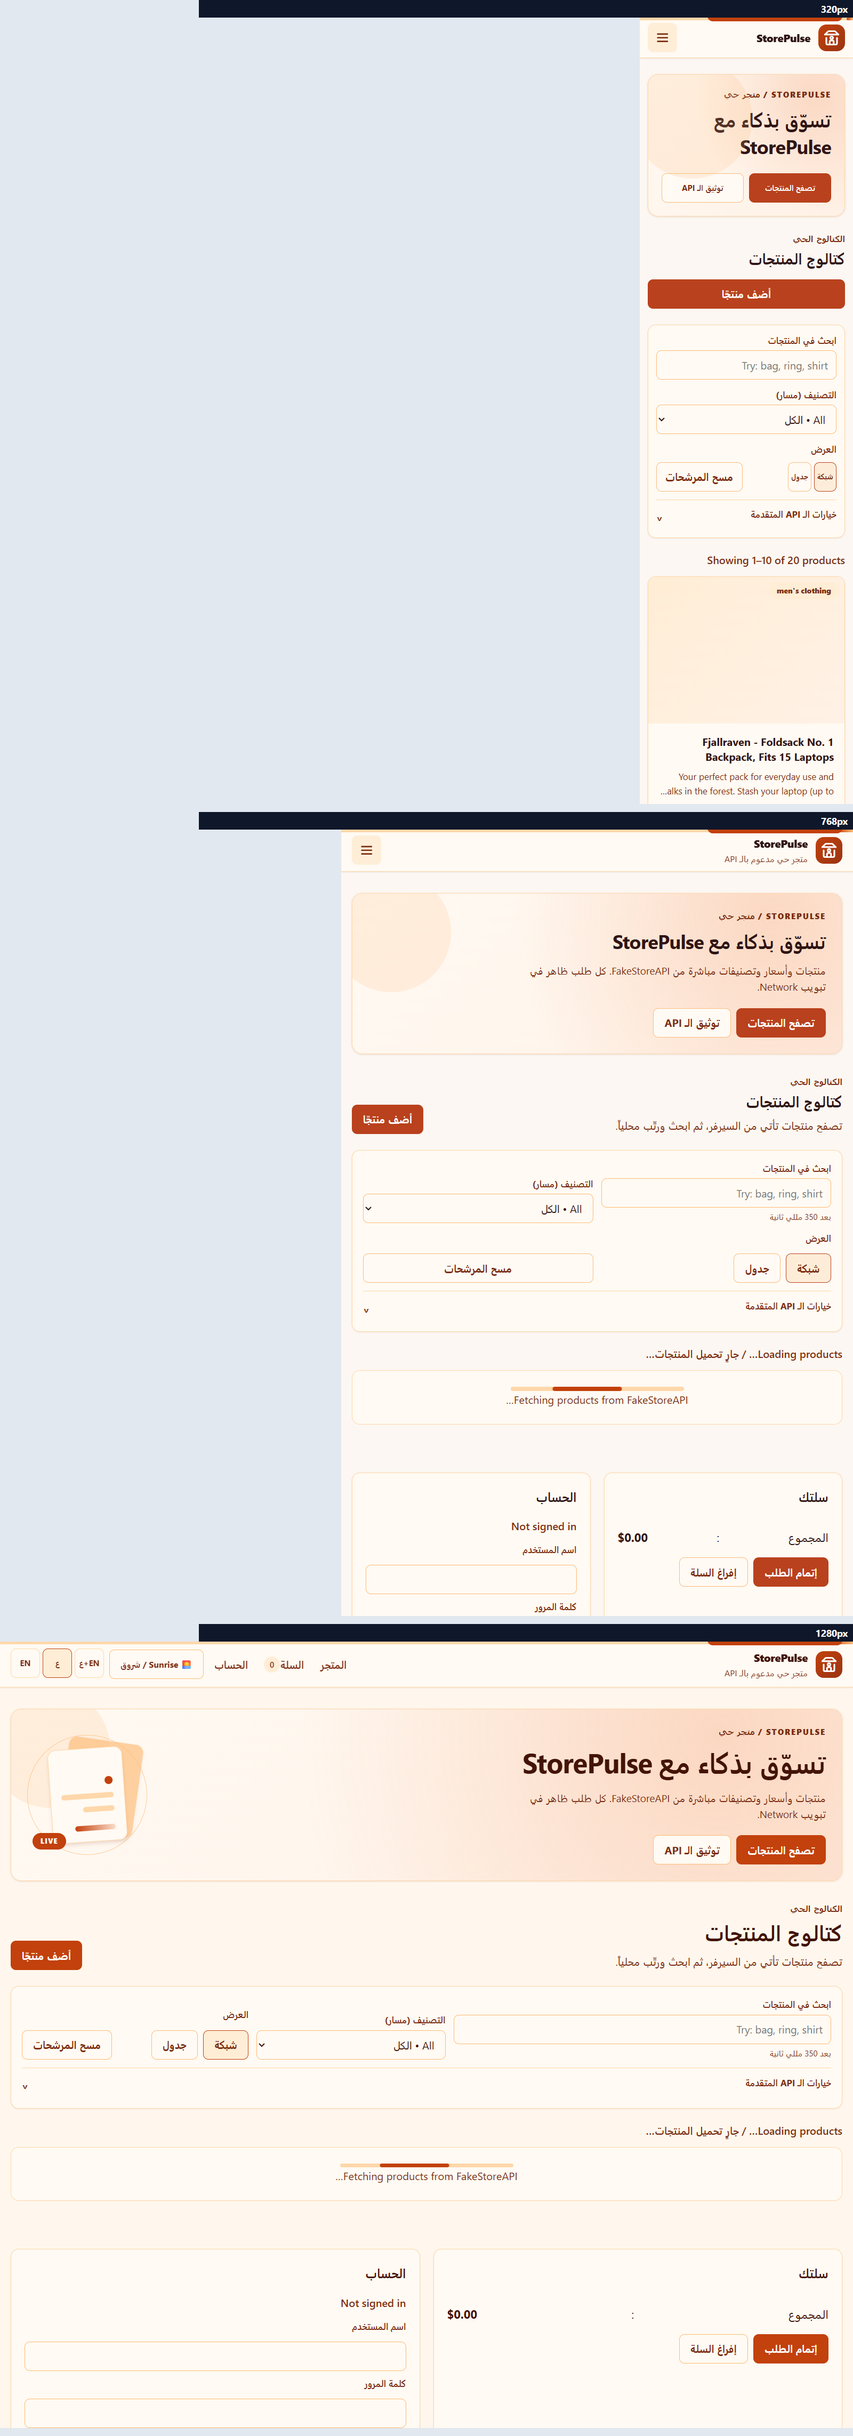
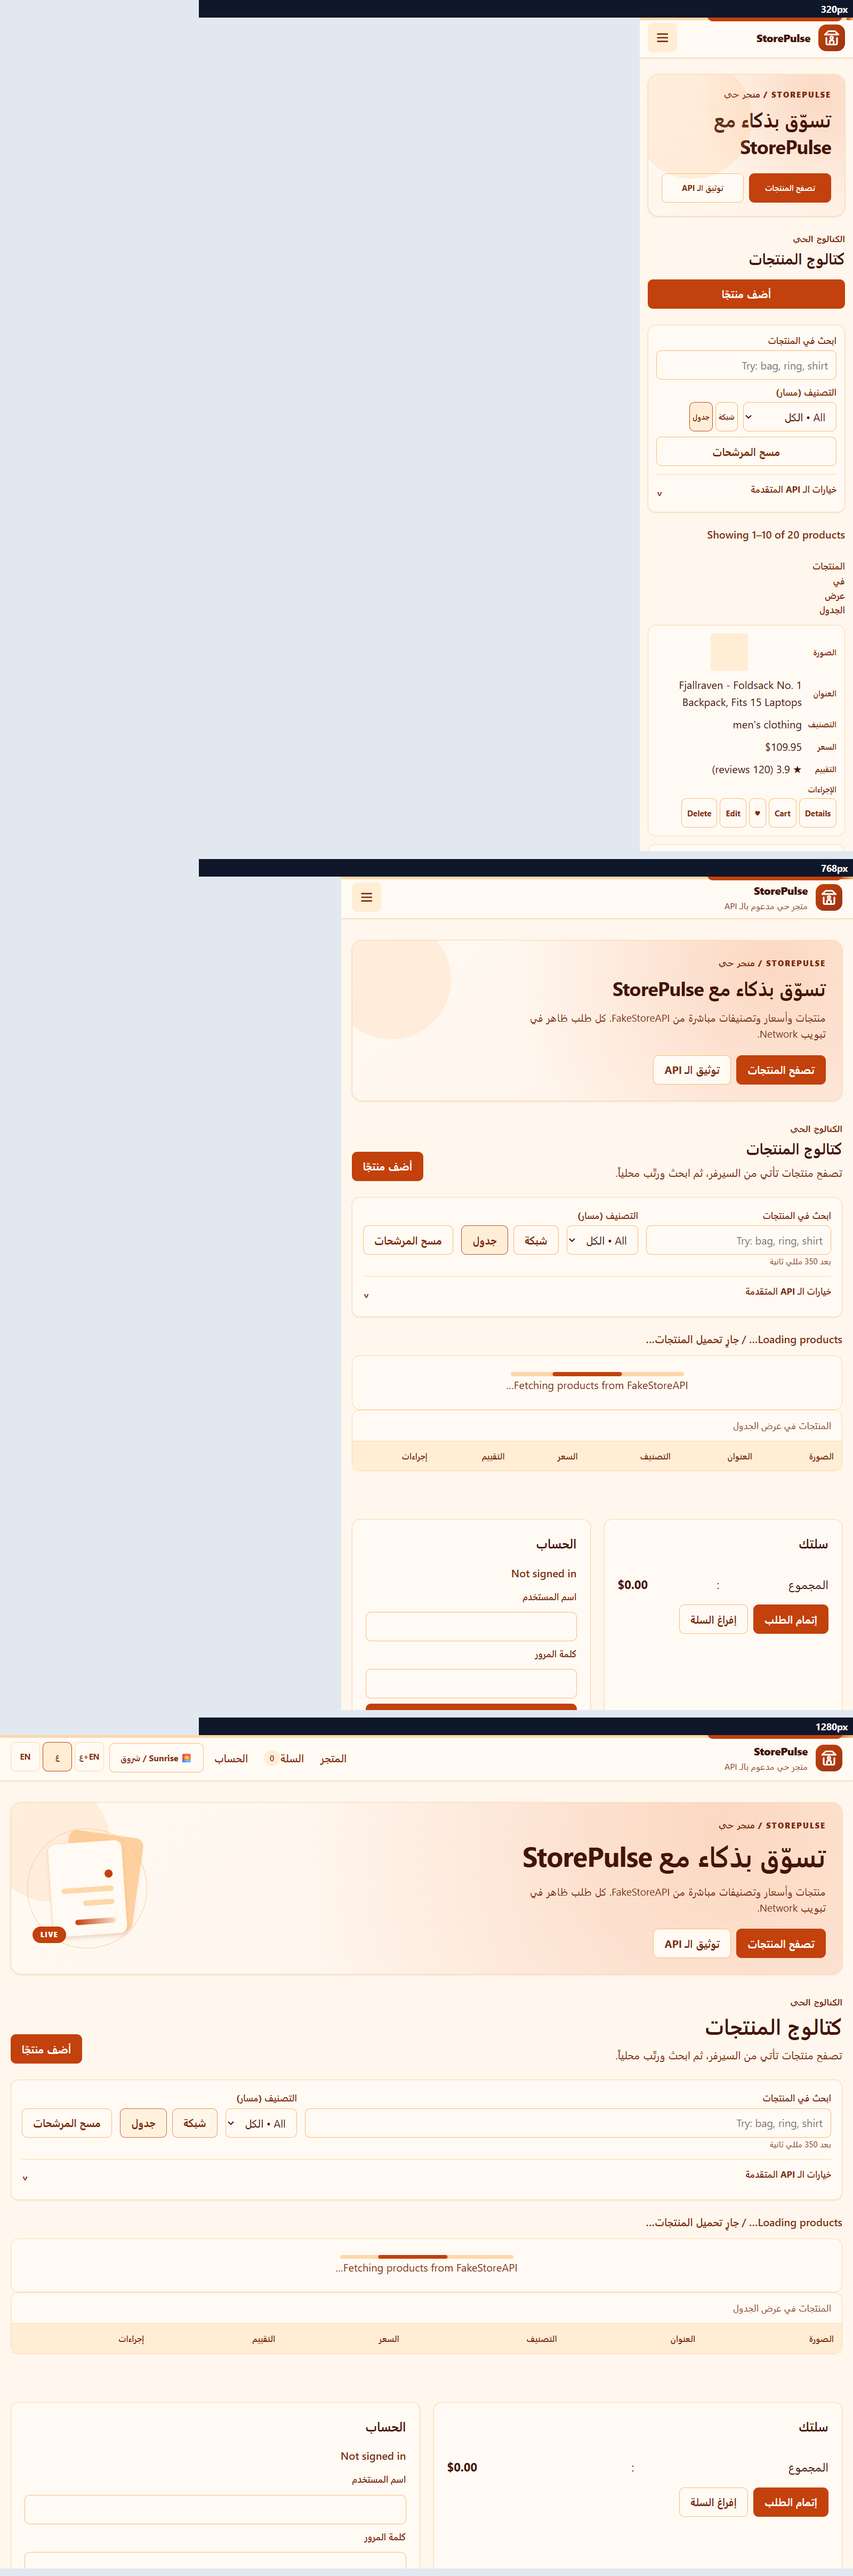
Remove sideways scrolling across the site
Keep the filter controls on one straight row from 641px and wrap them on phones instead of adding an internal scrollbar. Turn the table into labelled cards at 640px and below, restrict dialogs to vertical scrolling, and refresh docs and evidence.

diff --git a/style.css b/style.css
@@ -768,27 +768,44 @@ textarea {
   box-shadow: var(--shadow-xs);
 }
 
+/* One straight row on wide screens; it wraps instead of scrolling on phones. */
 .filter-primary {
-  display: grid;
-  grid-template-columns: minmax(min(100%, 220px), 2fr) minmax(min(100%, 180px), 1fr) auto auto;
-  align-items: end;
+  display: flex;
+  flex-wrap: nowrap;
+  align-items: flex-end;
   gap: var(--space-3);
+  min-width: 0;
+  /* Leave room for the absolutely positioned debounce hint without another strip. */
+  padding-block-end: var(--space-5);
+}
+
+.filter-primary > * {
+  flex: 0 0 auto;
 }
 
 .filter-field {
   min-width: 0;
 }
 
-/* :first-child gives the search field priority on wide screens. */
+/* The hint is taken out of flow so the search input shares the control baseline. */
+.filter-search {
+  position: relative;
+}
+
+/* :first-child gives the search field priority while staying on the row. */
 .filter-primary > .filter-field:first-child {
+  flex: 1 1 220px;
   min-width: 220px;
 }
 
 .filter-hint {
+  position: absolute;
+  inset-block-start: 100%;
+  inset-inline-start: 0;
   display: block;
   color: var(--text-muted);
   font-size: 0.75rem;
-  margin-block-start: var(--space-1);
+  white-space: nowrap;
 }
 
 .view-switch {
@@ -796,16 +813,20 @@ textarea {
   display: flex;
   align-items: flex-end;
   gap: var(--space-2);
-  flex-wrap: wrap;
+  flex-wrap: nowrap;
+  margin: 0;
+  padding: 0;
 }
 
+/* The legend is kept for accessibility but does not add a second line. */
 .view-switch legend {
-  float: left;
-  width: 100%;
-  color: var(--text-secondary);
-  font-size: 0.85rem;
-  font-weight: 700;
-  margin-block-end: var(--space-1);
+  position: absolute;
+  width: 1px;
+  height: 1px;
+  overflow: hidden;
+  clip-path: inset(50%);
+  white-space: nowrap;
+  margin: 0;
 }
 
 .view-switch .btn[aria-pressed="true"] {
@@ -1047,7 +1068,6 @@ textarea {
 }
 
 .table-wrap {
-  overflow-x: auto;
   border: 1px solid var(--border-subtle);
   border-radius: var(--radius-md);
   background: var(--bg-surface);
@@ -1056,7 +1076,6 @@ textarea {
 .product-table {
   width: 100%;
   border-collapse: collapse;
-  min-width: 640px;
 }
 
 .product-table caption {
@@ -1284,7 +1303,8 @@ textarea {
 .app-dialog {
   width: min(100% - 2 * var(--space-4), 560px);
   max-height: min(90vh, 720px);
-  overflow: auto;
+  overflow-x: hidden;
+  overflow-y: auto;
   border: 1px solid var(--border-subtle);
   border-radius: var(--radius-lg);
   padding: var(--space-5);
@@ -1376,17 +1396,8 @@ textarea {
    13. Responsive rules — no horizontal scroll at 320 px (PDF 3.3).
    -------------------------------------------------------------------------- */
 @media (max-width: 900px) {
-  .filter-primary {
-    grid-template-columns: minmax(0, 2fr) minmax(0, 1fr);
-  }
-
   .filter-primary > .filter-field:first-child {
-    min-width: 0;
-  }
-
-  .view-switch,
-  .clear-button {
-    grid-column: span 1;
+    min-width: 180px;
   }
 
   .primary-nav > a {
@@ -1441,13 +1452,103 @@ textarea {
     display: none;
   }
 
-  .filter-primary,
   .advanced-grid {
     grid-template-columns: minmax(0, 1fr) minmax(0, 1fr);
   }
 
   .cart-item {
     grid-template-columns: 1fr auto;
+  }
+}
+
+/* Phones wrap the toolbar and turn the table into labelled cards: no sideways scroll. */
+@media (max-width: 640px) {
+  .filter-primary {
+    flex-wrap: wrap;
+  }
+
+  .filter-primary > .filter-field:first-child {
+    flex: 1 1 100%;
+    min-width: 0;
+  }
+
+  .filter-primary > .filter-field:nth-child(2) {
+    flex: 0 1 140px;
+    min-width: 0;
+  }
+
+  .clear-button {
+    flex: 1 1 auto;
+  }
+
+  .table-wrap {
+    border: 0;
+    background: none;
+  }
+
+  .product-table,
+  .product-table tbody,
+  .product-table tr,
+  .product-table td {
+    display: block;
+    width: 100%;
+    min-width: 0;
+  }
+
+  .product-table thead {
+    display: none;
+  }
+
+  .product-table caption {
+    padding-inline: 0;
+    font-weight: 700;
+  }
+
+  .product-table tr {
+    margin-block-end: var(--space-3);
+    padding: var(--space-2);
+    border: 1px solid var(--border-subtle);
+    border-radius: var(--radius-md);
+    background: var(--bg-surface);
+  }
+
+  .product-table td {
+    display: grid;
+    grid-template-columns: minmax(var(--size-touch), auto) minmax(0, 1fr);
+    align-items: center;
+    gap: var(--space-2);
+    padding: var(--space-1);
+    border: 0;
+    overflow-wrap: anywhere;
+  }
+
+  .product-table td::before {
+    color: var(--text-muted);
+    font-size: 0.75rem;
+    font-weight: 700;
+  }
+
+  .product-table td:nth-child(1)::before { content: 'Image'; }
+  .product-table td:nth-child(2)::before { content: 'Title'; }
+  .product-table td:nth-child(3)::before { content: 'Category'; }
+  .product-table td:nth-child(4)::before { content: 'Price'; }
+  .product-table td:nth-child(5)::before { content: 'Rating'; }
+  .product-table td:nth-child(6)::before { content: 'Actions'; }
+
+  html[lang="ar"] .product-table td:nth-child(1)::before { content: 'الصورة'; }
+  html[lang="ar"] .product-table td:nth-child(2)::before { content: 'العنوان'; }
+  html[lang="ar"] .product-table td:nth-child(3)::before { content: 'التصنيف'; }
+  html[lang="ar"] .product-table td:nth-child(4)::before { content: 'السعر'; }
+  html[lang="ar"] .product-table td:nth-child(5)::before { content: 'التقييم'; }
+  html[lang="ar"] .product-table td:nth-child(6)::before { content: 'الإجراءات'; }
+
+  .product-table td:last-child {
+    display: block;
+  }
+
+  .product-table td:last-child::before {
+    display: block;
+    margin-block-end: var(--space-1);
   }
 }
 
@@ -1479,10 +1580,10 @@ textarea {
   }
 
   .filter-primary {
-    grid-template-columns: minmax(0, 1fr) minmax(0, 1fr);
+    gap: var(--space-2);
+    padding-block-end: 0;
   }
 
-  .filter-primary > .filter-field,
   .advanced-grid {
     grid-column: 1 / -1;
     grid-template-columns: minmax(0, 1fr);
@@ -1492,11 +1593,6 @@ textarea {
   .section-note,
   .filter-hint {
     display: none;
-  }
-
-  .view-switch,
-  .clear-button {
-    grid-column: span 1;
   }
 
   .view-switch {
@@ -1536,7 +1632,7 @@ textarea {
   }
 }
 
-/* Table stays usable on a phone via horizontal scrolling (PDF 6.4). */
+/* Touch devices skip the hover lift; the table is stacked above at 640px. */
 @media (hover: none) {
   .product-card:hover {
     transform: none;

diff --git a/index.html b/index.html
@@ -122,8 +122,8 @@
             <select id="category-select"><option value="all">All • الكل</option></select>
           </div>
 
-          <fieldset class="view-switch">
-            <legend><span class="bi-en" lang="en">View</span><span class="bi-ar" lang="ar" dir="rtl">العرض</span></legend>
+          <fieldset class="view-switch" aria-label="View • العرض">
+            <legend class="sr-only"><span class="bi-en" lang="en">View</span><span class="bi-ar" lang="ar" dir="rtl">العرض</span></legend>
             <button class="btn btn-outline" id="grid-view" type="button" aria-pressed="true"><span class="bi-en" lang="en">Grid</span><span class="bi-ar" lang="ar" dir="rtl">شبكة</span></button>
             <button class="btn btn-outline" id="table-view" type="button" aria-pressed="false"><span class="bi-en" lang="en">Table</span><span class="bi-ar" lang="ar" dir="rtl">جدول</span></button>
           </fieldset>

diff --git a/README.md b/README.md
@@ -38,7 +38,8 @@ Opening `index.html` directly with `file://` also works for layout, but a local 
 - The thin line at the very top is a scroll-progress indicator: a subtle track plus a theme-coloured fill that grows from the inline start as the page scrolls (`--scroll-progress`, updated on a passive/rAF-throttled scroll listener).
 - Three switchable themes: **Light**, **Dark** and **Sunrise** — one repeatedly-pressable button cycles them; the first visit still follows `prefers-color-scheme`.
 - English / Arabic / Both switcher inherited from `api.html`; the first visit starts in single-language Arabic (`dir="rtl"`), while **Both** remains available as a learning aid.
-- Compact toolbar: search, category, view and clear stay visible; `?sort=`, `?limit=`, page size and browser sort live in an accessible `<details>` panel.
+- Compact toolbar: search, category, view and clear share **one straight row** from 641 px upward; on phones they wrap into short rows instead of scrolling sideways. `?sort=`, `?limit=`, page size and browser sort live in an accessible `<details>` panel.
+- No sideways scroll anywhere: the table keeps its real `<table>` markup but becomes labelled cards at 640 px and below; dialogs only scroll vertically.
 - Loading, error and empty states with retry and a one-click "clear filters" action; clear feedback through a live-region toast.
 - Clicking a product image, title or table thumbnail opens details; the detail dialog also has add-to-cart and favourite actions, closes on backdrop/Esc, and failed images get a local SVG fallback.
 
@@ -142,7 +143,7 @@ The response would include the 20 products plus a total count (or a `x-total-cou
 | `evidence/M3-responsive-sunrise.png` | 320 / 768 / 1280 px in the sunrise theme. |
 | `evidence/M5-network-requests.png` | Headers, Payload and Response for every endpoint used. |
 | `evidence/M6-stress-test.png` | The three 5,000-product timings and median. |
-| `evidence/M6-table-view.png` | Real table view with 10 rows and active view button. |
+| `evidence/M6-table-view.png` | Real table view with 10 rows at 320 px, stacked as labelled cards with no sideways scroll. |
 | `evidence/M7-console-sample.png` | Clean load, debounce proof and timing logs. |
 | `evidence/M9-storage.png` | localStorage and sessionStorage maps with token redacted. |
 
@@ -150,7 +151,7 @@ The response would include the 20 products plus a total count (or a `x-total-cou
 
 - **Full suite:** 72 automated checks were repeated 20 times with a fresh tab and empty storage each run: **1440/1440 passed**.
 - **Console:** clean on load and throughout the suite, zero uncaught errors. The only console error seen was the expected 401 from the deliberate wrong-password test.
-- **Responsive:** no horizontal scroll at 320, 768 or 1280 px in any theme; hamburger appears at ≤768 px and is hidden at 1280 px.
+- **Responsive:** no horizontal scroll at 320, 480, 640, 768 or 1280 px in any theme; no section has an `overflow-x: auto/scroll` container. The filter row stays straight from 641 px and wraps on phones; the table becomes labelled cards at ≤640 px; dialogs scroll vertically only. Hamburger appears at ≤768 px and is hidden at 1280 px.
 - **Touch targets:** every interactive button/control measured at least 44 px in all three tested widths.
 - **Keyboard:** the first focusable element is the skip link; activating it moves focus to `main`; `Tab` reaches search in four steps; typing works; `:focus-visible` outlines are present.
 - **Browsers:** automated checks ran in Chromium. A second-browser check was not possible in this environment, so it remains a manual review item.
